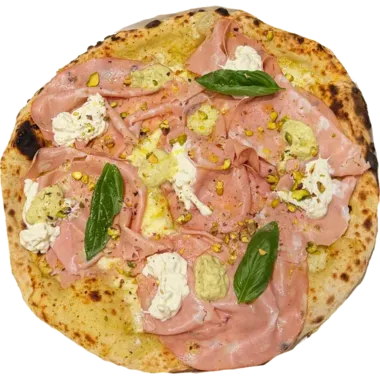
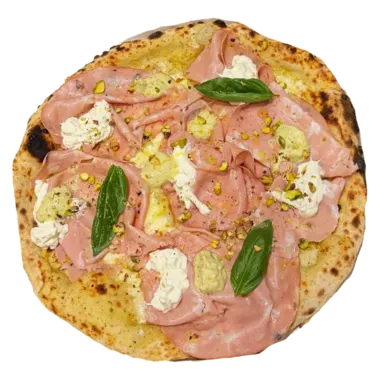
fix(photos): supprime le cadre intermittent et normalise la marge des pizzas
Le cadre qui réapparaissait par moments venait du flou CSS : filter: blur()
estompe aussi les bords de son propre élément, et l'agrandissement de 14 % qui
devait repousser ce bord hors du cadre ne couvrait que 16 px là où un flou de
10 px s'étale sur près de 30. Selon la largeur de la carte, le zoom et la
densité de l'écran, le bord estompé retombait dans le cadre et s'y lisait comme
un rectangle — d'où un défaut qui allait et venait sans qu'on touche à rien.

Le flou est désormais appliqué à la génération de l'image, plus en CSS : la
vignette passe à 160 px déjà floutée, pour 1,7 Ko, et plus aucun filtre ne
s'applique à l'élément.

Le recadrage serrait chaque pizza au plus près, si bien que leur taille
apparente dépendait de leur rondeur : la Quattro Formaggi remplissait son cadre
entier et touchait le haut du bandeau, la Parma flottait au milieu. Le carré est
maintenant 7 % plus grand que la pizza, et l'affichage compense pour qu'elles ne
rapetissent pas.

Claude-Session: https://claude.ai/code/session_014SC8sWjugjZCp492ta6Ltr

diff --git a/assets/styles/app.css b/assets/styles/app.css
@@ -523,11 +523,11 @@ form.is-submitting .btn-send__loading { display: inline-flex; }
    ------------------------------------------------------------------------ */
 .pizza-photo { position: absolute; inset: 0; overflow: hidden; }
 .pizza-photo__glow { position: absolute; inset: 0; background-size: cover; background-position: center;
-    transform: scale(1.14); filter: blur(10px); }
+    transform: scale(1.06); }
 .pizza-photo__shade { position: absolute; inset: 0;
     background: radial-gradient(ellipse at 50% 32%, rgba(12,10,9,.16) 20%, rgba(12,10,9,.72) 78%),
                 linear-gradient(to top, rgba(12,10,9,.62) 16%, rgba(12,10,9,.22) 48%, rgba(12,10,9,.06) 76%); }
-.pizza-photo img { position: absolute; left: 50%; top: 31%; width: 68%; height: auto;
+.pizza-photo img { position: absolute; left: 50%; top: 31%; width: 74%; height: auto;
     transform: translate(-50%,-50%);
     filter: drop-shadow(0 18px 24px rgba(0,0,0,.6)) drop-shadow(0 3px 5px rgba(0,0,0,.42)); }
 
@@ -557,7 +557,7 @@ form.is-submitting .btn-send__loading { display: inline-flex; }
 
 /* Photo en bandeau sur la fiche pizza : pas de verre, le texte est en dessous */
 .pizza-hero__photo--filled { height: clamp(240px, 34vw, 340px); background: #201d19; background-image: none; }
-.pizza-hero__photo--filled .pizza-photo img { width: auto; height: 84%; top: 50%; }
+.pizza-hero__photo--filled .pizza-photo img { width: auto; height: 92%; top: 50%; }
 .footer__credit { font-size: 12.5px; color: #a59b88; letter-spacing: .3px; }
 .footer__credit a { color: var(--text-mid); font-weight: 600; }
 .footer__credit a:hover { color: var(--terracotta-link); }
